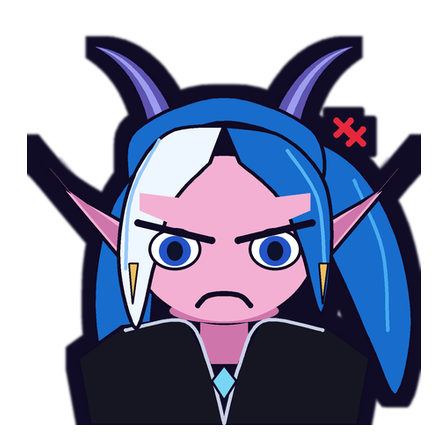
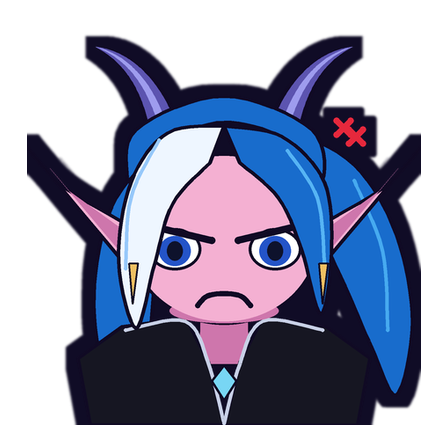
Galaxy Elf rage emote: hair in front of the brows and lid patches

Changed region(s): [[0.2812, 0.4062, 0.4062, 0.5938], [0.5938, 0.4062, 0.7188, 0.5312]]

diff --git a/index.html b/index.html
@@ -10422,7 +10422,7 @@
       <a class="proj-btn" href="images/twitch/Starcaller/Emotes/heart_448.png?v=648a8263" target="_blank" rel="noopener" title="Starcaller set - Twitch emote: Heart">Heart</a>
       <a class="proj-btn" href="images/twitch/Starcaller/Emotes/love_448.png?v=5ddc2fde" target="_blank" rel="noopener" title="Starcaller set - Twitch emote: Love">Love</a>
       <a class="proj-btn" href="images/twitch/Starcaller/Emotes/moon_448.png?v=dd6d067e" target="_blank" rel="noopener" title="Starcaller set - Twitch emote: Moon">Moon</a>
-      <a class="proj-btn" href="images/twitch/Starcaller/Emotes/rage_448.png?v=4f74c315" target="_blank" rel="noopener" title="Starcaller set - Twitch emote: Rage">Rage</a>
+      <a class="proj-btn" href="images/twitch/Starcaller/Emotes/rage_448.png?v=0bfed0e6" target="_blank" rel="noopener" title="Starcaller set - Twitch emote: Rage">Rage</a>
       <a class="proj-btn" href="images/twitch/Starcaller/Emotes/shock_448.png?v=18b53cef" target="_blank" rel="noopener" title="Starcaller set - Twitch emote: Shock">Shock</a>
       <a class="proj-btn" href="images/twitch/Starcaller/Emotes/sleepy_448.png?v=44895b8b" target="_blank" rel="noopener" title="Starcaller set - Twitch emote: Sleepy">Sleepy</a>
       <a class="proj-btn" href="images/twitch/Starcaller/Emotes/smirk_448.png?v=4b7c17fe" target="_blank" rel="noopener" title="Starcaller set - Twitch emote: Smirk">Smirk</a>

diff --git a/tools/make_starcaller2.py b/tools/make_starcaller2.py
@@ -309,13 +309,15 @@ def chibi2(expr):
     pen.ell(224, 318, 62, 14, SKIN_D)
     pen.ell(224, 236, 105, 94, SKIN)
     # fringe: white lock on the left, blue on the right
-    pen.poly(sm([(114, 172), (124, 112), (224, 74), (324, 112), (334, 172), (290, 122), (224, 104), (160, 122)]), HAIRB, LINE, 4)
-    pen.poly(sm([(224, 108), (160, 116), (118, 172), (104, 262), (124, 338), (146, 262), (166, 196), (208, 150)]), WHITE, LINE, 4)
-    pen.line([(150, 124), (118, 190), (112, 270)], (150, 200, 250), 4, smooth=True)
-    pen.poly(sm([(224, 108), (290, 120), (338, 172), (346, 252), (334, 322), (312, 248), (286, 190), (242, 150)]), HAIRB, LINE, 4)
-    pen.line([(296, 136), (330, 190), (338, 262)], (86, 180, 244), 4, smooth=True)
-    pen.poly([(116, 264), (126, 264), (120, 310)], GOLD, LINE, 2)
-    pen.poly([(332, 264), (342, 264), (336, 310)], GOLD, LINE, 2)
+    def fringe():
+        pen.poly(sm([(114, 172), (124, 112), (224, 74), (324, 112), (334, 172), (290, 122), (224, 104), (160, 122)]), HAIRB, LINE, 4)
+        pen.poly(sm([(224, 108), (160, 116), (118, 172), (104, 262), (124, 338), (146, 262), (166, 196), (208, 150)]), WHITE, LINE, 4)
+        pen.line([(150, 124), (118, 190), (112, 270)], (150, 200, 250), 4, smooth=True)
+        pen.poly(sm([(224, 108), (290, 120), (338, 172), (346, 252), (334, 322), (312, 248), (286, 190), (242, 150)]), HAIRB, LINE, 4)
+        pen.line([(296, 136), (330, 190), (338, 262)], (86, 180, 244), 4, smooth=True)
+        pen.poly([(116, 264), (126, 264), (120, 310)], GOLD, LINE, 2)
+        pen.poly([(332, 264), (342, 264), (336, 310)], GOLD, LINE, 2)
+    fringe()
     L, R, EY = 168, 282, 244
 
     def shadow_(cx):
@@ -358,6 +360,7 @@ def chibi2(expr):
         pen.poly([(R + 40, EY - 40), (R - 40, EY - 6), (R - 40, EY - 50), (R + 40, EY - 60)], SKIN)
         pen.line([(L - 42, EY - 26), (L + 42, EY - 6)], LINE, 8)
         pen.line([(R + 42, EY - 26), (R - 42, EY - 6)], LINE, 8)
+        fringe()  # hair in front of the lid patches and brow lines
         pen.line([(194, 312), (208, 300), (240, 300), (254, 312)], LINE, 6, smooth=True)
         for dx, dy in ((0, 0), (14, 10)):
             pen.line([(352 + dx, 118 + dy), (368 + dx, 102 + dy)], (230, 40, 60), 7)
